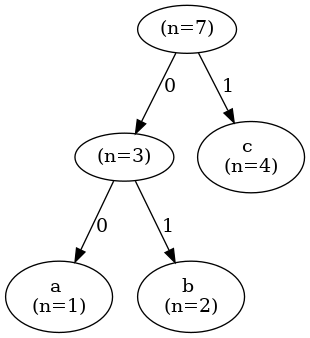
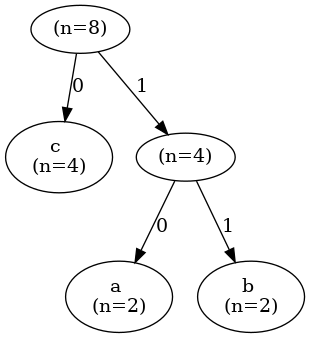
readme: tutorial, first pass

diff --git a/index.ts b/index.ts
@@ -5,6 +5,7 @@ import { stdin, stdout } from "process";
 import arg from "arg";
 import fs from "fs";
 import { prefixTreeCommand } from "./commands/prefix-tree";
+import "./helpers/Uint1ArrayHelper";
 
 const args = arg({});
 

diff --git a/readme.md b/readme.md
@@ -2,14 +2,6 @@
 
 `zoid-zip` is a tiny data compressor built for learning!
 
-It works by creating a [huffman-coding](https://en.wikipedia.org/wiki/Huffman_coding)/prefix tree for the input data! Then compressed by encoding
-
-1. input length
-2. huffman-coding as a table (its length, each byte, size of bits, actual bits)
-3. encoded original data
-
-The decompressor works by decoding the input length, extracting the huffman-coding table from the compressed blob and re-constructing the input!
-
 # Setup
 
 ```
@@ -28,7 +20,338 @@ Or run
 
 - `cat index.ts | pnpm exec vite-node index.ts compress | pnpm exec vite-node index.ts decompress` - to use any arbitrary output!
 
-# Here is an example huffman-coding tree for this input
+---
+
+# Table of Contents
+
+<!-- toc -->
+
+- [Build Your Own Data Compressor](#build-your-own-data-compressor)
+- [Theory](#theory)
+  * [Huffman Coding](#huffman-coding)
+  * [Tree Serialization](#tree-serialization)
+  * [Trie Search](#trie-search)
+- [Compression and Decompression](#compression-and-decompression)
+  * [Compression](#compression)
+  * [Decompression](#decompression)
+- [Conclusion](#conclusion)
+- [Fun](#fun)
+  * [Here is an example huffman-coding tree for this input](#here-is-an-example-huffman-coding-tree-for-this-input)
+
+<!-- tocstop -->
+
+# Build Your Own Data Compressor
+
+I wrote this during my time at (the Recurse Center)[https://recurse.com]! for learning about data compressors. Let's dive in.
+
+# Theory
+
+Data compression is a sub topic of information theory! We will dive right into the theory needed to write a compressor and hopefully the experience of building this compressor will get you more interested in information theory in general.
+
+Let's start with why compression? Data compression is all around us:
+
+- Image, audio, video files use compression to store more data using less storage space
+- Internet is powered by data compression, the less bytes you transfer over the network, the faster your user can see content
+
+Note: compression is a tradeoff between storage/network transport vs compute, we can compress data into a smaller amount of bytes, making it easier to travsfer over the network, but the client needs to use more "compute" once it has downloaded a comptessed package.
+
+## Huffman Coding
+
+Let's say you want to compress the string: "ababcccc". The first thing we need to do is to find a way to encode the individual characters into a representation that takes less space than the original (this is called "variable length coding"). One of the most scalable ways of doing that is to use [huffman-coding](https://en.wikipedia.org/wiki/Huffman_coding).
+
+Huffman-coding works by making a frequency table of the characters (Leaf nodes) in the input, so in our case that would look like
+
+| Char | Frequency |
+| ---- | --------- |
+| a    | 2         |
+| b    | 2         |
+| c    | 4         |
+
+Then it joins the last two nodes with most frequency by having a common internal node as the parent. Repeating this process till there is no Leaf node remaning.
+
+For our input, "ababcccc", it will look like the following:
+
+![](./examples/basic/prefix-tree.png)
+
+and here is a step by step animation of how the algorithm constructs this tree:
+
+![](./examples/basic/animation/animation.gif)
+
+Once we have the huffman-coding, we can encode input characters into bits, by tracing the path up to the leaf node. In our case, it looks like the following
+
+| Char | Encoding |
+| ---- | -------- |
+| a    | 10       |
+| b    | 11       |
+| c    | 0        |
+
+We can already see a pattern emerging, the most frequent characters (c in our case), is closer to the root and is represented by less bits. The less frequent characters like a, b are further away form the root.
+
+Another property of Huffman coding is that the prefixes are not shared by characters! Which means any travelsal of the tree to a leaf Node is unique and no other traversal will be a substring of another traversal. This would be useful in decoding as while decoding we won't know "how many" bits to read as the encoding length is variable.
+
+So, to encode the string
+
+"ababcccc", we need the following bit pattern
+
+|      |     |     |     |     |     |     |     |     | total size                          |
+| ---- | --- | --- | --- | --- | --- | --- | --- | --- | ----------------------------------- |
+| char | a   | b   | a   | b   | c   | c   | c   | c   | 8 bytes                             |
+| bits | 10  | 11  | 10  | 11  | 0   | 0   | 0   | 0   | 12 bits = 1 byte + 4 bits = 2 bytes |
+
+This shows that essentially, if we are able to encode our string using Huffman encoding! We will be able to reduce its size.
+
+But there are some challenges with decoding! While decoding, we will need access to this tree "somehow". The way we will do that is by packing the tree with the data while compression!
+
+It works by creating a /prefix tree for the input data! Then compressed by encoding
+
+1. input length
+2. huffman-coding as a table (its length, each byte, size of bits, actual bits)
+3. encoded original data
+
+The decompressor works by decoding the input length, extracting the huffman-coding table from the compressed blob and re-constructing the input!
+
+## Tree Serialization
+
+To also pack the tree with the compressed data, we need to serialize it. Tree serialization and de-serialization means represnting the tree in "bytes", putting it in the compressed binary and re-constructing the tree when decompressing.
+
+To serialise a Huffman-coding tree, we can run a pre-order tree traversal on it, and add a special byte (ASCII `31` aka unit separator) for internal non-Leaf nodes.
+
+Here is how it looks like for our example tree:
+
+![](./examples/basic/prefix-tree.png)
+
+Pre-order tree traversal: [31, c, 31, a, b]
+
+We also need to "know" how many bytes represent the traversal and we need to store that information, that would take one byte.
+
+## Trie Search
+
+When decoding "unknown" number of bytes, we will use [Trie search algorithm](https://en.wikipedia.org/wiki/Trie) to decode the bits fast. Luckily, Hoffman-coding tree is also a prefix tree i.e. Trie search algorithm can be applied on it without any code changes.
+
+# Compression and Decompression
+
+With the information we derived in the previous sections, we are ready to perform compression and then decompression.
+
+## Compression
+
+We first store the length of the input data in 4-byte (input can be of a huge length).
+
+compressed binary:
+
+```
+00001000 08 # Input data length, 4 bytes
+00000000 00
+00000000 00
+00000000 00
+```
+
+Then we add the length of tree traversal in 1-byte (we only support ASCII in input right now, that means the maximum number of characters can be 255). (Note: this needs to be 2 I think, while maximum number of leaf nodes is 255, including a special ASCII character for internal nodes in tree traversal [more on this later], the tree traversal length might be >255)
+
+compressed binary:
+
+```
+00001000 08 # Input data length, 4 bytes
+00000000 00
+00000000 00
+00000000 00
+
+00000101 05 # Length of the tree traversal, 1-byte
+```
+
+Then we add the 5 bytes of the traversal: [31, c, 31, a, b]
+
+compressed binary:
+
+```
+00001000 08 # Input data length, 4 bytes
+00000000 00
+00000000 00
+00000000 00
+
+00000101 05 # Length of the tree traversal, 1-byte
+
+00011111 1F # Tree traversal, 5 items of 1-byte each = 5-bytes
+01100011 63
+00011111 1F
+01100001 61
+01100010 62
+```
+
+1F, 63, 1F, 61, 62 are just hex reprentation of 31, c, 31, a, b. Please refer to the following table
+
+| Char           | ASCII | Hex | Binary   |
+| -------------- | ----- | --- | -------- |
+| Unit Separator | 31    | 1F  | 00011111 |
+| a              | 97    | 61  | 01100001 |
+| b              | 98    | 62  | 01100010 |
+| c              | 99    | 63  | 01100011 |
+
+Total size so far: 10 bytes
+
+At this point, we can already see that for this small example string, we are expanding the data i.e. we are using more bytes than the original input string of 8-bytes already just to store the metadata. As the input starts getting larger, we start to see the advantages of compression. This "small" example is just for the demonstration of the process.
+
+Moving on, let's start packing the data: "ababcccc". This is where things get interesting and instead of packing data at byte level, we pack them as closely as possible with bits.
+
+After packing the first "a" (i.e. `10` bits, remaining string: "babcccc"). Note that we are using the little-ending encoding.
+
+Compressed binary
+
+```
+00001000 08 # Input data length, 4 bytes
+00000000 00
+00000000 00
+00000000 00
+
+00000101 05 # Length of the tree traversal, 1-byte
+
+00011111 1F # Tree traversal, 5 items of 1-byte each = 5-bytes
+01100011 63
+00011111 1F
+01100001 61
+01100010 62
+
+00000001 01 # data "a" packed
+```
+
+After packing the next "b" (i.e. `11` bits, remaining string: "abcccc"). Note that we are using the little-ending encoding.
+
+```
+00001000 08 # Input data length, 4 bytes
+00000000 00
+00000000 00
+00000000 00
+
+00000101 05 # Length of the tree traversal, 1-byte
+
+00011111 1F # Tree traversal, 5 items of 1-byte each = 5-bytes
+01100011 63
+00011111 1F
+01100001 61
+01100010 62
+
+00001101 0D # data "ab" packed
+```
+
+Similarly, packing the remaining string "abcccc" yields the following compressed binary!
+
+```
+00001000 08 # Input data length, 4 bytes
+00000000 00
+00000000 00
+00000000 00
+
+00000101 05 # Length of the tree traversal, 1-byte
+
+00011111 1F # Tree traversal, 5 items of 1-byte each = 5-bytes
+01100011 63
+00011111 1F
+01100001 61
+01100010 62
+
+11011101 DD # data "ababcccc" packed
+00000000 00
+```
+
+To be able to pack bits and bytes like this, we will need an abstraction that allows us to easily read/write bits and bytes. This can be seen in [binary-utils](./binary-utils/) folder.
+
+## Decompression
+
+Decompression will consist of reading bytes for metadata and unpacking bits for the actual data then dropping the "processed bits". From the final compressed binary, it will first read the input data length!
+
+Data length, read the first 4 bytes = 8
+
+remaining compressed binary:
+
+```
+00000101 05 # Length of the tree traversal, 1-byte
+
+00011111 1F # Tree traversal, 5 items of 1-byte each = 5-bytes
+01100011 63
+00011111 1F
+01100001 61
+01100010 62
+
+11011101 DD # data "ababcccc" packed
+00000000 00
+```
+
+Read tree traversal length, 1 byte = 5
+
+remaining compressed binary:
+
+```
+00011111 1F # Tree traversal, 5 items of 1-byte each = 5-bytes
+01100011 63
+00011111 1F
+01100001 61
+01100010 62
+
+11011101 DD # data "ababcccc" packed
+00000000 00
+```
+
+Read the contents of the traversal i.e. 5-bytes = [31, c, 31, a, b]
+
+remaining compressed binary:
+
+```
+11011101 DD # data "ababcccc" packed
+00000000 00
+```
+
+Construct the huffman-tree from the traversal.
+
+Loop up to data length i.e. 8! Extract 8 bytes one-by-one. This one is a bit tricky, since the encoding length is variable, we need to use the following algorithm
+
+1. We "peek" n bits (starting at 1), and find it in tree (using Trie search)
+2. If we end up on a leaf node, we return the "char" on the leaf node
+3. Otherwise, we "peek" n + 1 bits and continue at step 2
+
+so after extracting "a" the binary looks like
+
+remaining compressed binary:
+
+```
+00110111 37
+  000000 00
+```
+
+after extracting "ab" the binary looks like
+
+remaining compressed binary:
+
+```
+00001101 0D
+    0000 00
+```
+
+so after extracting "abab" (next 2 chars) the binary looks like
+
+remaining compressed binary:
+
+```
+00000000 00
+```
+
+so after extracting "ababcccc" (next 2 chars) the binary looks like
+
+remaining compressed binary:
+
+```
+    0000 00
+```
+
+At this point, we have successfully decompressed our input string. 4-bits remain in the binary which we simply discard.
+
+# Conclusion
+
+I hope this gave you a glimpse into how data compressors are built. Our data compressor is still pretty slow and just a toy compared to the production ready data compressors.
+
+Most real world compressors use [LZ family of algorithms](https://en.wikipedia.org/wiki/LZ77_and_LZ78) in conjuction with Hoffman-coding.
+
+# Fun
+
+## Here is an example huffman-coding tree for this input
 
 ```
 a
@@ -60,3 +383,7 @@ zzzzzzzzzzzzzzzzzzzzzzzzzz
 ```
 
 ![Prefix tree coding](./examples/a-z/prefix-tree.png)
+
+And how this is constructed
+
+![Prefix tree coding animation](./examples/a-z/animation/animation.gif)
